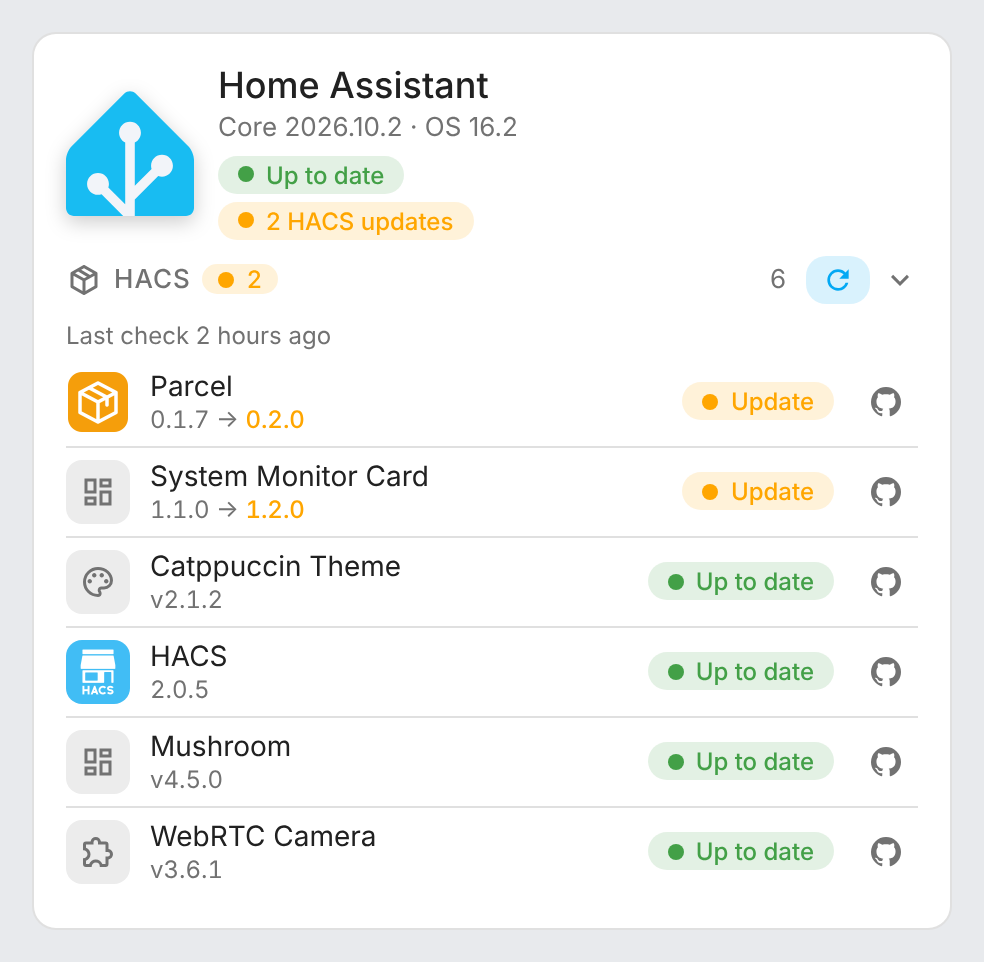
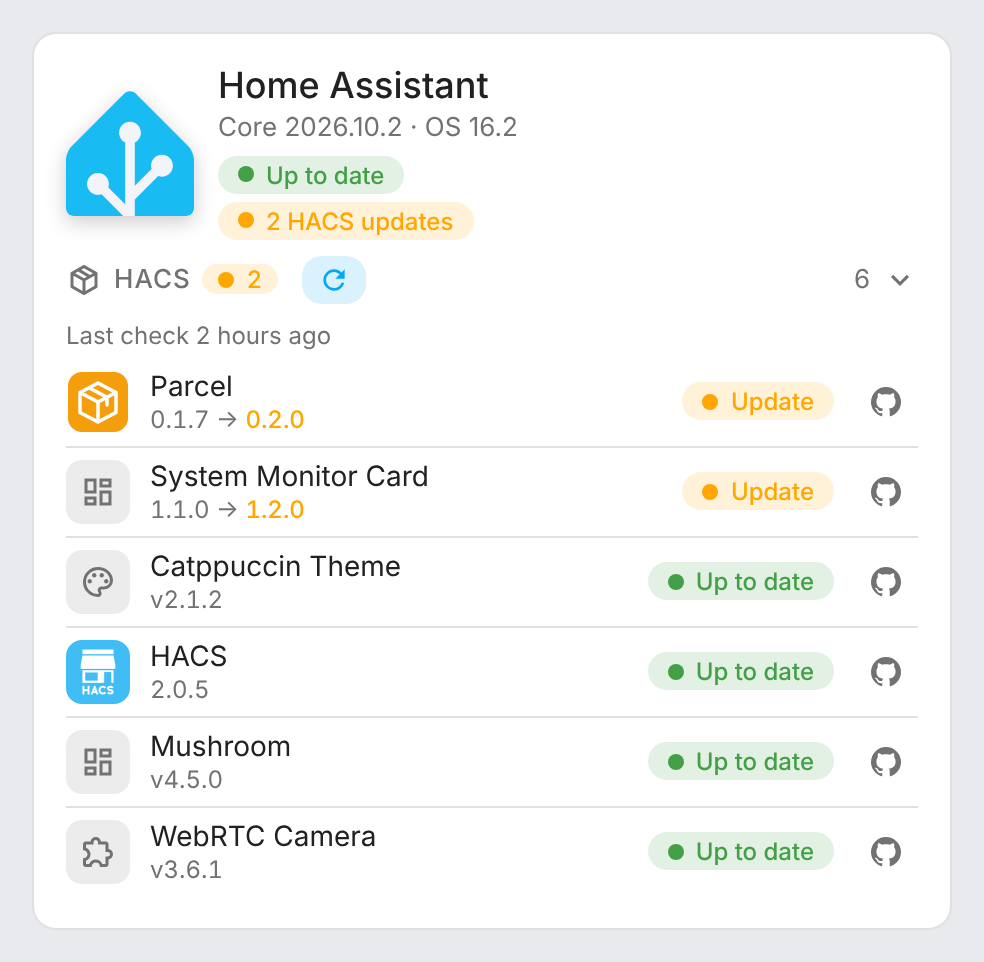
Keep the HACS check button away from the fold chevron
Place it right after the title and update badge. Bump to 1.3.3.

Claude-Session: https://claude.ai/code/session_01RFV5xSLphoNjwMoS7QecVX

Changed region(s): [[0.3049, 0.2495, 0.3963, 0.343], [0.7927, 0.2495, 0.8841, 0.3119]]

diff --git a/src/system-monitor-card.js b/src/system-monitor-card.js
@@ -667,7 +667,7 @@ const FULL_STYLE = `
          border: none; border-radius: 10px; cursor: pointer; color: var(--primary-color, #03a9f4);
          background: color-mix(in srgb, var(--primary-color, #03a9f4) 15%, transparent); }
   .btn:disabled, .btn[aria-disabled="true"] { cursor: default; opacity: .8; }
-  .section-title .btn-check { text-transform: none; letter-spacing: 0; padding: 4px 8px; margin-left: 4px; font-size: 12px; gap: 4px; }
+  .section-title .btn-check { text-transform: none; letter-spacing: 0; padding: 4px 8px; margin-left: 6px; margin-right: 16px; font-size: 12px; gap: 4px; }
   .btn .icon { width: 16px; height: 16px; }
   .spin { animation: sm-spin 1s linear infinite; }
   @keyframes sm-spin { to { transform: rotate(360deg); } }
@@ -919,8 +919,8 @@ class SystemMonitorCard extends SystemMonitorBase {
     }
     const head = `<div class="section-title toggle ${open ? "" : "closed"}" data-action="hacs" role="button" aria-expanded="${open}">
         ${svgIcon(ICONS.hacs)}${this._t("hacs")}
-        ${n ? `<span class="chip warn"><span class="dot"></span>${n}</span>` : ""}
-        <span class="count">${ext.length}</span>${check}${svgIcon(ICONS.chevron, "chevron")}
+        ${n ? `<span class="chip warn"><span class="dot"></span>${n}</span>` : ""}${check}
+        <span class="count">${ext.length}</span>${svgIcon(ICONS.chevron, "chevron")}
       </div>`;
     if (!open) return `<div class="hacs">${head}</div>`;
     const rows = ext.map((x) => {

diff --git a/README.md b/README.md
@@ -156,7 +156,7 @@ Logos are loaded dynamically, best source first:
 3. The avatar of the GitHub owner of the repository
 4. An icon for the HACS category (integration, dashboard, theme…)
 
-**Check for updates** (the refresh button in the HACS section header, visible even while the list is folded) presses the button of the [HACS Refresh](https://github.com/juju35/ha-hacs-refresh) integration: Home Assistant asks HACS to fetch every downloaded repository again from GitHub, in the background, and the card shows the progress and the time of the last check from HACS Refresh's sensors. The check goes on if you leave the page, and HACS Refresh can also check at an interval set in its options. Without HACS Refresh, the button is hidden and the unfolded list shows a link to install it.
+**Check for updates** (the refresh button next to the HACS section title, visible even while the list is folded) presses the button of the [HACS Refresh](https://github.com/juju35/ha-hacs-refresh) integration: Home Assistant asks HACS to fetch every downloaded repository again from GitHub, in the background, and the card shows the progress and the time of the last check from HACS Refresh's sensors. The check goes on if you leave the page, and HACS Refresh can also check at an interval set in its options. Without HACS Refresh, the button is hidden and the unfolded list shows a link to install it.
 
 Thresholds:
 

diff --git a/CHANGELOG.md b/CHANGELOG.md
@@ -1,5 +1,10 @@
 # Changelog
 
+## 1.3.3
+
+### 💄 Style
+- The **Check for updates** button sits right after the HACS title and update badge, away from the extension count and the fold chevron, so it is no longer pressed by mistake.
+
 ## 1.3.2
 
 ### 💄 Style
